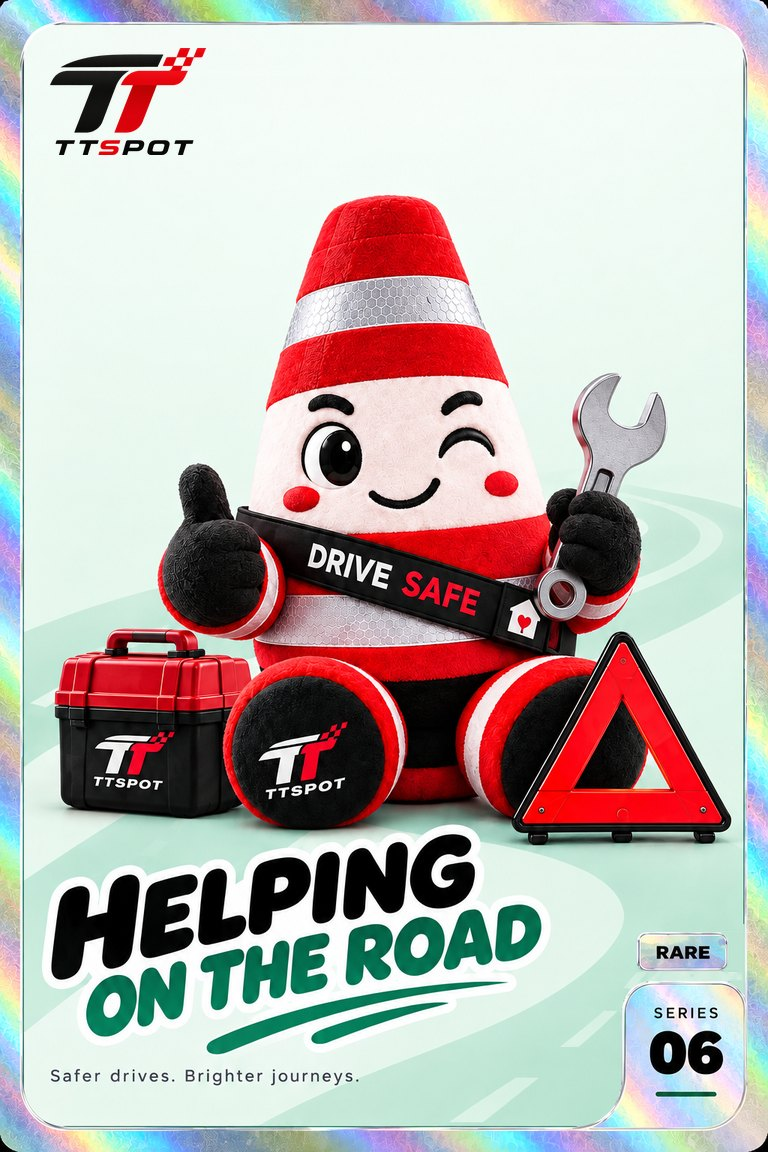
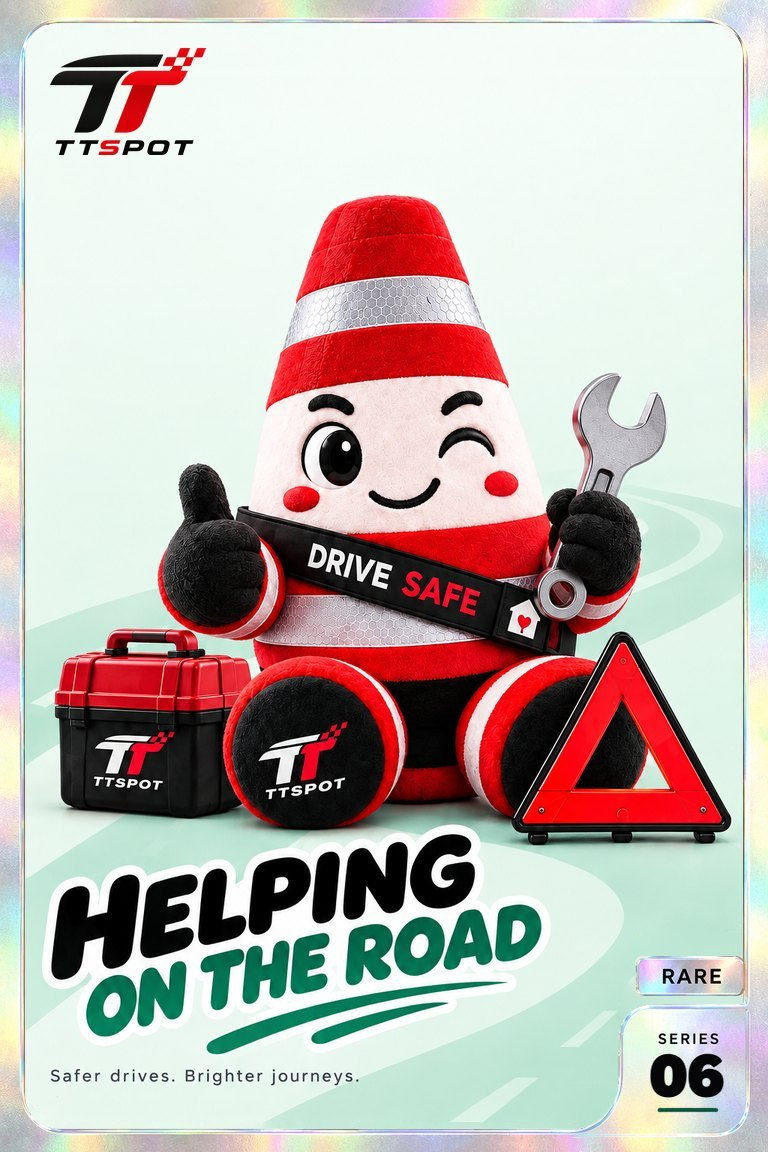
Card 06 takes card 05's rare border: same silver frame, SERIES notch and RARE tag
06 kept its own artwork (TiTi, props, mint background, logo, title, tagline) inside 05's
panel shape; everything outside it (frame, notch, tag) is 05's pixels. 06's old tag and
SERIES box are repainted with its mint background, "06" is cut from its old box and set in
05's notch on the "05" centre and baseline, and 05's underline shape is in 06's green.
Pure Pillow compositing (tool/art_c6_frame.py); the previous 06 is kept as c6_prev.jpg.
Lineup and compare sheets regenerated, plus c5_c6_frames.jpg side by side.

Changed region(s): [[0.0, 0.0, 1.0, 1.0]]

diff --git a/tool/art_c6_frame.py b/tool/art_c6_frame.py
@@ -1,0 +1,396 @@
+"""Card 06 gets card 05's RARE border (owner, 2026-10-01: "the two rare cards' borders differ,
+make 06 follow 05 exactly"). Pure Pillow, no image model.
+
+The v3 cards 05 and 06 were generated one by one, so each got its own take on the silver holo
+frame: 06 had a louder rainbow band, tighter top corners (r 26-28 against 05's 31.5), a rounder
+bottom-left corner (r 41), a SERIES box that sits on the frame as a separate box and a RARE tag
+24 px higher. This script keeps everything of 06 that is inside 05's artwork panel (TiTi, props,
+mint background, logo, title, tagline) and takes everything outside it from 05 (the frame, the
+SERIES notch, the RARE tag), then puts 06's number into 05's notch:
+
+  1. PANEL: 05's artwork panel as an analytic shape, measured on design/cards_v3/c5.jpg where the
+     rim starts to tint the cream panel (pixel-centre coordinates):
+       rounded rectangle x 25.4..741.8, y 23.4..1127.6, corner radius 31.5
+       minus the RARE tag   x 634.6.., y 955.3..995.8, left corners r 7 (its right end runs into the frame)
+       minus the SERIES notch x 617.5.., y 1003.3.., top-left corner r 34 (concave for the panel)
+       and the panel's own rounded corner r 46 where its bottom edge meets the notch.
+     Drawn 8x supersampled and box-filtered down, so the mask edge is anti-aliased.
+  2. CLEAN: 06's own panel (x 23.75..742.1, y 24.75..1125.25; corners r 27.7 / 26 / 41; its box
+     from x 621.5 / y 980.5 with a r 46 corner at the bottom) shrunk by 2 px, minus 06's RARE
+     tag (x 636-727, y 931-971) and SERIES box, grown by 3 px. Every pixel of 05's panel that is not
+     clean in 06 (06's old tag and box, and the thin strips where 05's panel reaches past 06's:
+     2 px at the top, 2-3 px at the bottom, the bottom-left corner) is repainted by a harmonic
+     (Laplace) fill from the clean mint pixels around it, so no box outline or edge is left.
+  3. NUMBER: in 05's notch the "05" and the red underline are lifted out (harmonic fill of the
+     pale holo around them). "06" is cut from 06's own SERIES box as an ink matte (darkness
+     against its locally filled background), scaled to the height of 05's "05" and set on the
+     same centre and baseline, in 05's ink. The underline keeps 05's exact shape and position (its
+     matte against the filled background) in 06's green.
+  4. out = 05 outside the panel, repaired 06 inside it, through the anti-aliased panel mask.
+
+  python tool/art_c6_frame.py              # design/cards_v3/c6.jpg + assets/cards/c6.jpg + sheets
+  python tool/art_c6_frame.py --debug DIR  # also write the masks and 3x seam crops into DIR
+
+Source images: design/cards_v3/c5.jpg and design/cards_v3/c6_prev.jpg (the previous 06, copied
+there on the first run), so re-running never compounds.
+"""
+import os, shutil, sys
+from PIL import Image, ImageDraw, ImageFilter, ImageFont
+
+ROOT = os.path.dirname(os.path.abspath(__file__))
+REPO = os.path.dirname(ROOT)
+DST = os.path.join(REPO, 'design', 'cards_v3')
+LIVE = os.path.join(REPO, 'assets', 'cards', 'c6.jpg')
+W, H = 768, 1152
+SS = 8  # mask supersampling
+
+# 05's panel (pixel-centre coordinates of the first rim-tinted position; see the docstring)
+PANEL = dict(L=25.4, T=23.4, R=741.8, B=1127.6, r=31.5)
+TAG = dict(L=634.6, T=955.3, B=995.8, r=7.0)
+NOTCH = dict(L=617.5, T=1003.3, r=34.0)
+FILLET = 46.0
+GROW = 0.3  # the panel reaches this far into the rim's soft onset, so no cream line is left
+
+# 06's own panel, tag and box (to know which of its pixels are clean mint background)
+P6 = dict(L=23.75, T=24.75, R=742.1, B=1125.25, tl=27.7, tr=26.0, bl=41.0)
+TAG6 = (636.25, 931.25, 727.25, 970.75)
+BOX6 = dict(L=621.5, T=980.5, r=22.0, fillet=46.0)
+
+# number boxes (integer pixel windows)
+NUM5 = (640, 1047, 736, 1104)      # "05" in 05's notch (SERIES label ends at y 1045)
+LINE5 = (648, 1102, 728, 1119)     # 05's red underline
+NUM6 = (640, 1023, 736, 1084)      # "06" in 06's box
+LINE6 = (648, 1086, 726, 1102)     # 06's green underline
+
+
+# ---------------------------------------------------------------- masks
+
+def _X(u):
+    return (u + 0.5) * SS
+
+
+def rrect(d, box, radii, fill, bg):
+    """A rectangle with its own radius per corner (tl, tr, br, bl), in pixel-centre coordinates,
+    on the SS-times canvas. Corners: clear the corner square to bg, then draw the quarter disc."""
+    x0, y0, x1, y1 = (_X(v) for v in box)
+    d.rectangle((x0, y0, x1, y1), fill=fill)
+    for i, r in enumerate(radii):
+        if r <= 0:
+            continue
+        R = r * SS
+        if i == 0:
+            sq, bb, a = (x0, y0, x0 + R, y0 + R), (x0, y0, x0 + 2 * R, y0 + 2 * R), (180, 270)
+        elif i == 1:
+            sq, bb, a = (x1 - R, y0, x1, y0 + R), (x1 - 2 * R, y0, x1, y0 + 2 * R), (270, 360)
+        elif i == 2:
+            sq, bb, a = (x1 - R, y1 - R, x1, y1), (x1 - 2 * R, y1 - 2 * R, x1, y1), (0, 90)
+        else:
+            sq, bb, a = (x0, y1 - R, x0 + R, y1), (x0, y1 - 2 * R, x0 + 2 * R, y1), (90, 180)
+        d.rectangle(sq, fill=bg)
+        d.pieslice(bb, a[0], a[1], fill=fill)
+
+
+def convex_corner(d, cx, cy, r, fill, bg):
+    """Round off a bottom-right panel corner at (cx, cy) with radius r (the corner where the panel's
+    bottom edge meets the SERIES notch)."""
+    x1, y1, R = _X(cx), _X(cy), r * SS
+    d.rectangle((x1 - R, y1 - R, x1, y1), fill=bg)
+    d.pieslice((x1 - 2 * R, y1 - 2 * R, x1, y1), 0, 90, fill=fill)
+
+
+def down(canvas):
+    return canvas.resize((W, H), Image.BOX)
+
+
+def panel_mask(g=GROW):
+    """05's artwork panel, 255 inside, anti-aliased."""
+    c = Image.new('L', (W * SS, H * SS), 0)
+    d = ImageDraw.Draw(c)
+    p, t, n = PANEL, TAG, NOTCH
+    rrect(d, (p['L'] - g, p['T'] - g, p['R'] + g, p['B'] + g), (p['r'] + g, p['r'] + g, 0, p['r'] + g), 255, 0)
+    rrect(d, (t['L'] + g, t['T'] + g, W + 40, t['B'] - g), (t['r'] - g, 0, 0, t['r'] - g), 0, 255)
+    rrect(d, (n['L'] + g, n['T'] + g, W + 40, H + 40), (n['r'] - g, 0, 0, 0), 0, 255)
+    convex_corner(d, n['L'] + g, p['B'] + g, FILLET + g, 255, 0)
+    return down(c)
+
+
+def clean6_mask(erode=2.0, grow=3.0):
+    """06's pixels that are plain panel (mint background or artwork), 255 = clean."""
+    c = Image.new('L', (W * SS, H * SS), 0)
+    d = ImageDraw.Draw(c)
+    p, b, e = P6, BOX6, erode
+    rrect(d, (p['L'] + e, p['T'] + e, p['R'] - e, p['B'] - e), (p['tl'] - e, p['tr'] - e, 0, p['bl'] - e), 255, 0)
+    rrect(d, (TAG6[0] - grow, TAG6[1] - grow, TAG6[2] + grow, TAG6[3] + grow), (8 + grow,) * 4, 0, 255)
+    rrect(d, (b['L'] - grow, b['T'] - grow, W + 40, H + 40), (b['r'] + grow, 0, 0, 0), 0, 255)
+    convex_corner(d, b['L'] - grow, p['B'] - e, b['fillet'] - grow, 255, 0)
+    m = down(c)
+    return m.point(lambda v: 255 if v >= 250 else 0)
+
+
+# ---------------------------------------------------------------- harmonic fill
+
+def harmonic_fill(im, fill, known, iters=250, omega=1.85):
+    """Repaint the pixels where `fill` is set by solving Laplace's equation from the `known`
+    pixels around them (4-neighbours; neighbours that are neither are left out, a free edge).
+    Starts from an onion-peel fill, then SOR. Returns a new RGB image."""
+    w, h = im.size
+    src = im.load()
+    fp, kp = fill.load(), known.load()
+    todo = [(x, y) for y in range(h) for x in range(w) if fp[x, y] and not kp[x, y]]
+    if not todo:
+        return im.copy()
+    idx = {q: i for i, q in enumerate(todo)}
+    val = [None] * len(todo)
+    # onion peel: repeatedly average the already-known 8-neighbours
+    got = [False] * len(todo)
+
+    def known_at(x, y):
+        return 0 <= x < w and 0 <= y < h and kp[x, y]
+
+    def nb8(x, y):
+        return ((x + dx, y + dy) for dx in (-1, 0, 1) for dy in (-1, 0, 1) if dx or dy)
+
+    ring = {i for i, (x, y) in enumerate(todo) if any(known_at(a, b) for a, b in nb8(x, y))}
+    left = set(range(len(todo)))
+    while ring:
+        layer, ring = sorted(ring), set()
+        newly = []
+        for i in layer:
+            x, y = todo[i]
+            acc, n = [0.0, 0.0, 0.0], 0
+            for a, b in nb8(x, y):
+                if known_at(a, b):
+                    c = src[a, b]
+                elif (a, b) in idx and got[idx[(a, b)]]:
+                    c = val[idx[(a, b)]]
+                else:
+                    continue
+                acc[0] += c[0]; acc[1] += c[1]; acc[2] += c[2]; n += 1
+            if n:
+                newly.append((i, [v / n for v in acc]))
+        for i, v in newly:
+            val[i], got[i] = v, True
+            left.discard(i)
+        for i, _ in newly:
+            x, y = todo[i]
+            for a, b in nb8(x, y):
+                j = idx.get((a, b))
+                if j is not None and not got[j]:
+                    ring.add(j)
+    for i in left:  # unreachable (should not happen): leave the source pixel
+        val[i] = list(src[todo[i]])
+    # neighbour lists: ('k', rgb) fixed or ('f', index)
+    nbs = []
+    for (x, y) in todo:
+        lst = []
+        for a, b in ((x - 1, y), (x + 1, y), (x, y - 1), (x, y + 1)):
+            if known_at(a, b):
+                lst.append((None, src[a, b]))
+            elif (a, b) in idx:
+                lst.append((idx[(a, b)], None))
+        nbs.append(lst)
+    for _ in range(iters):
+        for i, lst in enumerate(nbs):
+            if not lst:
+                continue
+            s0 = s1 = s2 = 0.0
+            for j, c in lst:
+                if j is not None:
+                    c = val[j]
+                s0 += c[0]; s1 += c[1]; s2 += c[2]
+            n = len(lst)
+            v = val[i]
+            v[0] += omega * (s0 / n - v[0]); v[1] += omega * (s1 / n - v[1]); v[2] += omega * (s2 / n - v[2])
+    out = im.copy()
+    op = out.load()
+    for (x, y), v in zip(todo, val):
+        op[x, y] = tuple(max(0, min(255, round(c))) for c in v)
+    return out
+
+
+# ---------------------------------------------------------------- the number
+
+def lum(c):
+    return 0.299 * c[0] + 0.587 * c[1] + 0.114 * c[2]
+
+
+def window_masks(im, box, test, grow=2):
+    """Inside box: the pixels passing test (ink), grown by `grow` px -> (fill, known) masks for the
+    harmonic fill of the background under them; known = the rest of the window."""
+    ink = Image.new('L', im.size, 0)
+    p, q = im.load(), ink.load()
+    x0, y0, x1, y1 = box
+    for y in range(y0, y1):
+        for x in range(x0, x1):
+            if test(p[x, y]):
+                q[x, y] = 255
+    fill = ink.filter(ImageFilter.MaxFilter(2 * grow + 1))
+    known = Image.new('L', im.size, 0)
+    ImageDraw.Draw(known).rectangle((x0, y0, x1 - 1, y1 - 1), fill=255)
+    known.paste(0, (0, 0), fill)
+    return fill, known
+
+
+def matte(im, bg, box, channel, ink_value):
+    """Ink coverage inside box: how far each pixel's channel value has moved from the filled
+    background toward the ink value. Returns an 'L' image the size of box."""
+    x0, y0, x1, y1 = box
+    p, b = im.load(), bg.load()
+    m = Image.new('L', (x1 - x0, y1 - y0), 0)
+    mp = m.load()
+    for y in range(y0, y1):
+        for x in range(x0, x1):
+            v, vb = channel(p[x, y]), channel(b[x, y])
+            a = (vb - v) / max(1.0, vb - ink_value)
+            mp[x - x0, y - y0] = max(0, min(255, round(255 * a)))
+    return m
+
+
+def bbox_of(m, thr=128):
+    return m.point(lambda v: 255 if v >= thr else 0).getbbox()
+
+
+def put_number(c5, c6, debug=None):
+    """05's notch with 06's number: returns the edited copy of c5."""
+    dark = lambda c: lum(c) < 150
+    red = lambda c: c[0] - c[1] > 60 and c[0] > 120
+    green = lambda c: c[1] - c[0] > 30 and lum(c) < 170
+
+    # 05: lift the "05" and the red line out of the notch
+    f1, k1 = window_masks(c5, NUM5, dark)
+    f2, k2 = window_masks(c5, LINE5, red)
+    fill5 = Image.new('L', c5.size, 0)
+    fill5.paste(255, (0, 0), f1); fill5.paste(255, (0, 0), f2)
+    known5 = Image.new('L', c5.size, 0)
+    known5.paste(255, (0, 0), k1); known5.paste(255, (0, 0), k2)
+    known5.paste(0, (0, 0), fill5)
+    bg5 = harmonic_fill(c5, fill5, known5)
+    m05 = matte(c5, bg5, NUM5, lum, 8)
+    mline = matte(c5, bg5, LINE5, lambda c: c[1], 30)
+
+    # 06: its "06" as a matte against its own filled box background
+    f6, k6 = window_masks(c6, NUM6, dark)
+    g6, gk6 = window_masks(c6, LINE6, green)
+    bg6 = harmonic_fill(c6, f6, k6)
+    m06 = matte(c6, bg6, NUM6, lum, 8)
+    bgl6 = harmonic_fill(c6, g6, gk6)
+
+    # colours: 05's ink, 06's green (the solid core of each)
+    def core(im, box, m, thr=235):
+        x0, y0 = box[:2]
+        p, mp = im.load(), m.load()
+        px = [p[x0 + x, y0 + y] for y in range(m.height) for x in range(m.width) if mp[x, y] >= thr]
+        return tuple(sorted(c[i] for c in px)[len(px) // 2] for i in range(3))
+    ink = core(c5, NUM5, m05)
+    mg = matte(c6, bgl6, LINE6, lambda c: c[0], 20)
+    green_ink = core(c6, LINE6, mg, 200)
+
+    # "06" scaled to the "05" height, same centre x and baseline
+    b5, b6 = bbox_of(m05), bbox_of(m06)
+    h5, h6 = b5[3] - b5[1], b6[3] - b6[1]
+    s = h5 / h6
+    cx5 = NUM5[0] + (b5[0] + b5[2]) / 2
+    cx6 = NUM6[0] + (b6[0] + b6[2]) / 2
+    base5, base6 = NUM5[1] + b5[3], NUM6[1] + b6[3]
+    # full-card matte of 06, then the affine map card(05 place) -> card(06 place)
+    full6 = Image.new('L', c6.size, 0)
+    full6.paste(m06, NUM6[:2])
+    a, e = 1 / s, 1 / s
+    c = cx6 - cx5 / s
+    f = base6 - base5 / s
+    placed = full6.transform(c6.size, Image.AFFINE, (a, 0, c, 0, e, f), resample=Image.BICUBIC)
+
+    out = bg5.copy()
+    out.paste(ink, (0, 0), placed)
+    full_line = Image.new('L', c5.size, 0)
+    full_line.paste(mline, LINE5[:2])
+    out.paste(green_ink, (0, 0), full_line)
+    info = dict(ink05=ink, green06=green_ink, bbox05=(NUM5[0] + b5[0], NUM5[1] + b5[1], NUM5[0] + b5[2], NUM5[1] + b5[3]),
+                bbox06=(NUM6[0] + b6[0], NUM6[1] + b6[1], NUM6[0] + b6[2], NUM6[1] + b6[3]), scale=round(s, 4),
+                line05=tuple(LINE5[i % 2] + v for i, v in enumerate(bbox_of(mline))))
+    if debug:
+        bg5.crop((600, 1000, 768, 1140)).resize((504, 420), Image.NEAREST).save(os.path.join(debug, 'num_bg05.png'))
+        m06.resize((m06.width * 4, m06.height * 4), Image.NEAREST).save(os.path.join(debug, 'num_matte06.png'))
+    return out, info
+
+
+# ---------------------------------------------------------------- build
+
+def build(debug=None):
+    c5 = Image.open(os.path.join(DST, 'c5.jpg')).convert('RGB')
+    prev = os.path.join(DST, 'c6_prev.jpg')
+    if not os.path.exists(prev):
+        shutil.copyfile(os.path.join(DST, 'c6.jpg'), prev)
+    c6 = Image.open(prev).convert('RGB')
+    assert c5.size == c6.size == (W, H)
+
+    panel = panel_mask()
+    clean = clean6_mask()
+    # repaint every pixel of 06 that 05's panel shows but that is not clean 06 panel
+    need = panel.point(lambda v: 255 if v > 0 else 0).filter(ImageFilter.MaxFilter(3))
+    c6r = harmonic_fill(c6, need, clean)
+
+    frame, info = put_number(c5, c6, debug)
+    out = Image.composite(c6r, frame, panel)
+
+    dst = os.path.join(DST, 'c6.jpg')
+    out.save(dst, quality=86, optimize=True, progressive=True)
+    shutil.copyfile(dst, LIVE)
+    print('wrote', os.path.relpath(dst, REPO), 'and', os.path.relpath(LIVE, REPO), os.path.getsize(dst), 'bytes')
+    print('number:', info)
+    if debug:
+        panel.save(os.path.join(debug, 'mask_panel05.png'))
+        clean.save(os.path.join(debug, 'mask_clean06.png'))
+        c6r.save(os.path.join(debug, 'c6_repaired.png'))
+    return out
+
+
+def frames_sheet():
+    """design/cards_v3/c5_c6_frames.jpg: 05 and the new 06 side by side, full size, with 2x crops
+    of the bottom-right corner and a top corner under each."""
+    c5 = Image.open(os.path.join(DST, 'c5.jpg')).convert('RGB')
+    c6 = Image.open(os.path.join(DST, 'c6.jpg')).convert('RGB')
+    pad, gap, top = 48, 48, 120
+    crop_br, crop_tl = (560, 920, 768, 1152), (0, 0, 104, 116)
+    zb = [(crop_br[2] - crop_br[0]) * 2, (crop_br[3] - crop_br[1]) * 2]
+    zt = [(crop_tl[2] - crop_tl[0]) * 2, (crop_tl[3] - crop_tl[1]) * 2]
+    sheet_w = pad * 2 + 2 * W + gap
+    sheet_h = top + H + 60 + zb[1] + 60 + pad
+    im = Image.new('RGB', (sheet_w, sheet_h), (246, 246, 246))
+    d = ImageDraw.Draw(im)
+
+    def font(name, size):
+        try:
+            return ImageFont.truetype('C:/Windows/Fonts/' + name, size)
+        except OSError:
+            return ImageFont.load_default()
+    d.text((pad, 34), 'Rare cards 05 and 06: one border', font=font('seguibl.ttf', 40), fill=(20, 20, 20))
+    d.text((pad, 84), '06 now uses 05\'s silver frame, SERIES notch and RARE tag; its artwork, number and green line are its own',
+           font=font('segoeui.ttf', 22), fill=(110, 110, 110))
+    for i, (card, lab) in enumerate(((c5, '05  Waiting for the Meet'), (c6, '06  Helping on the Road (new frame)'))):
+        x = pad + i * (W + gap)
+        im.paste(card, (x, top))
+        d.rectangle((x - 1, top - 1, x + W, top + H), outline=(215, 215, 215))
+        y = top + H + 14
+        d.text((x, y), lab, font=font('segoeuib.ttf', 24), fill=(20, 20, 20))
+        y += 46
+        im.paste(card.crop(crop_tl).resize(zt, Image.LANCZOS), (x, y))
+        im.paste(card.crop(crop_br).resize(zb, Image.LANCZOS), (x + W - zb[0], y))
+        d.text((x, y + zt[1] + 8), 'top-left corner, 2x', font=font('segoeui.ttf', 18), fill=(110, 110, 110))
+        d.text((x + W - zb[0], y + zb[1] + 8), 'RARE tag and SERIES notch, 2x', font=font('segoeui.ttf', 18), fill=(110, 110, 110))
+    dst = os.path.join(DST, 'c5_c6_frames.jpg')
+    im = im.crop((0, 0, sheet_w, sheet_h - pad + 40))
+    im.save(dst, quality=88, optimize=True, progressive=True)
+    print('sheet', os.path.relpath(dst, REPO), im.size, os.path.getsize(dst), 'bytes')
+
+
+if __name__ == '__main__':
+    args = sys.argv[1:]
+    debug = args[args.index('--debug') + 1] if '--debug' in args else None
+    if debug:
+        os.makedirs(debug, exist_ok=True)
+    build(debug)
+    frames_sheet()
+    sys.path.insert(0, ROOT)
+    import art_cards_v3
+    art_cards_v3.sheets()  # lineup.jpg (and compare.jpg) with the new 06
